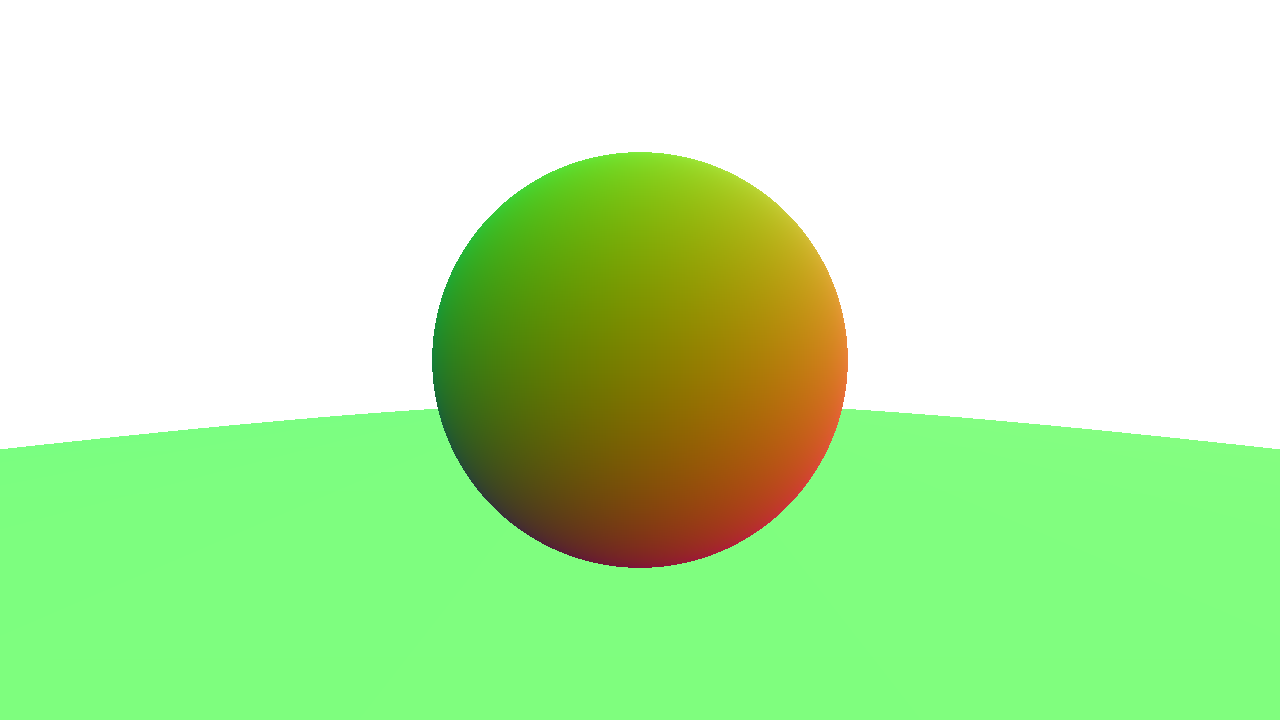
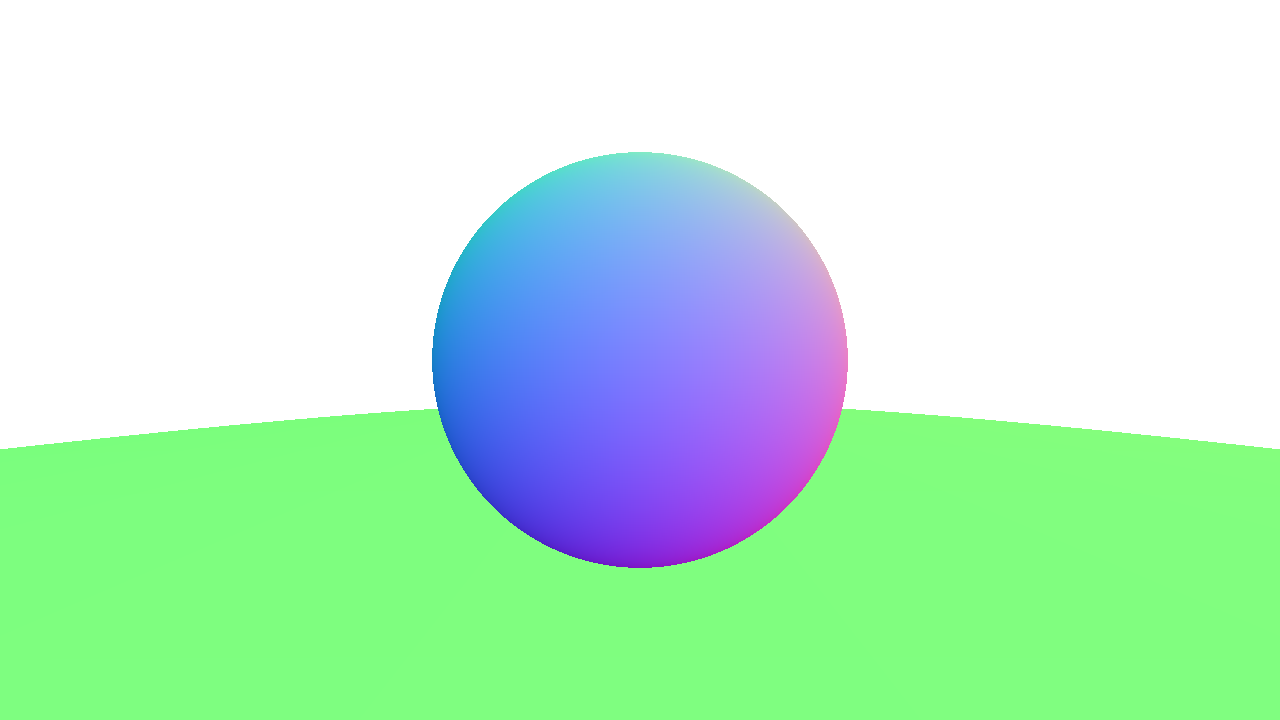
refactor

Changed region(s): [[0.3125, 0.2139, 0.6875, 0.7944]]

diff --git a/src/renderer.rs b/src/renderer.rs
@@ -1,0 +1,132 @@
+#[derive(Debug)]
+pub struct Camera {
+    aspect_ratio: f32,
+    pub frame_size: (u32, u32),
+    center: Vector3,
+    pixel_delta_u: Vector3,
+    pixel_delta_v: Vector3,
+    pixel_0_loc: Vector3,
+    /// near plane
+    viewport_size: (f32, f32),
+}
+impl Camera {
+    pub fn new() -> Self {
+        let aspect_ratio = 16.0 / 9.0;
+        let frame_width = 1280;
+        let frame_height = 720;
+        let center = Vector3::ZERO;
+        // near plane
+        let viewport_size = (2.0*aspect_ratio, 2.0);
+        let pixel_size = 2.0 / frame_height as f32;
+        let viewport_top_left =
+            center + vec3(0.0, 0.0, -1.0) + vec3(-viewport_size.0 / 2.0, viewport_size.1 / 2.0, 0.0);
+        let pixel_delta_u = vec3(pixel_size, 0.0, 0.0);
+        let pixel_delta_v = vec3(0.0, -pixel_size, 0.0);
+        let pixel_0_loc = viewport_top_left + 0.5 * (pixel_delta_u + pixel_delta_v);
+        Self {
+            aspect_ratio,
+            frame_size: (frame_width, frame_height),
+            center,
+            pixel_0_loc,
+            pixel_delta_u,
+            pixel_delta_v,
+            viewport_size,
+        }
+    }
+    pub fn get_ray_at(&self, u: u32, v: u32) -> Ray {
+        let dir =
+            self.pixel_0_loc + (u as f32) * self.pixel_delta_u + (v as f32) * self.pixel_delta_v
+                - self.center;
+        Ray {
+            origin: self.center,
+            direction: dir.normalize(),
+        }
+    }
+}
+
+use std::{fs::File, io::BufWriter};
+
+use image::ImageError;
+use indicatif::ProgressBar;
+use lib_rs::{
+    color::{rgba, Color},
+    linear_algebra::{vector::vec3, Vector3},
+    ray::{HitRecord, Hitable, Ray},
+};
+pub struct Scene {
+    geometries: Vec<Box<dyn Hitable>>,
+}
+
+impl Scene {
+    pub fn new() -> Self {
+        Self { geometries: vec![] }
+    }
+    pub fn ray_cast(&self, ray: Ray) -> Option<HitRecord> {
+        let mut iter = self.geometries.iter();
+        loop {
+            if let Some(s) = iter.next() {
+                if let Some(r) = ray.hit(s, 0.0, 5.0) {
+                    return Some(r);
+                };
+            } else {
+                break;
+            }
+        }
+        return None;
+    }
+    pub fn add(&mut self,g:Box<dyn Hitable>){
+        self.geometries.push(g);
+    }
+}
+
+pub struct Renderer<'a> {
+    camera: &'a Camera,
+    scene: &'a Scene,
+}
+impl<'a> Renderer<'a> {
+    pub fn new(camera: &'a Camera, scene: &'a Scene) -> Self {
+        Self { camera, scene }
+    }
+    pub fn render(&self) -> Result<(), ImageError> {
+        let mut pixels =
+            Vec::with_capacity((self.camera.frame_size.0 * self.camera.frame_size.1) as usize);
+        let bar = ProgressBar::new(pixels.capacity() as u64);
+        for j in 0..self.camera.frame_size.1 {
+            for i in 0..self.camera.frame_size.0 {
+                let ray = self.camera.get_ray_at(i, j);
+                let d = self.scene.ray_cast(ray);
+
+                let color = if let Some(r) = d {
+                    rgba(
+                        r.normal.x * 0.5 + 0.5,
+                        r.normal.y * 0.5 + 0.5,
+                        r.normal.z * 0.5 + 0.5,
+                        1.0,
+                    )
+                } else {
+                    rgba(1.0, 1.0, 1.0, 1.0)
+                };
+
+                pixels.push(color);
+                bar.inc(1);
+            }
+        }
+        bar.finish();
+
+        let mut buffer: Vec<u8> = Vec::with_capacity(pixels.len() * 4);
+        for c in pixels {
+            buffer.extend_from_slice(&c.as_rgba8_bytes());
+        }
+        let mut writer = BufWriter::new(File::create("output.png").unwrap());
+        image::write_buffer_with_format(
+            &mut writer,
+            &buffer,
+            self.camera.frame_size.0,
+            self.camera.frame_size.1,
+            image::ColorType::Rgba8,
+            image::ImageFormat::Png,
+        )
+        .unwrap();
+        Ok(())
+    }
+}

diff --git a/src/main.rs b/src/main.rs
@@ -6,67 +6,24 @@ use lib_rs::{
     linear_algebra::{vector::vec3, Vector3},
     ray::Ray,
 };
-mod image;
+use renderer::{Renderer, Scene};
+
+use crate::renderer::Camera;
+mod renderer;
 
 const WIDTH: u32 = 1280;
 const HEIGHT: u32 = 720;
 
 fn main() {
     let bar = indicatif::ProgressBar::new((WIDTH * HEIGHT) as u64);
-    let camera = Vector3::ZERO;
-    let u_dir = Vector3::UNIT_X;
-    let v_dir = -Vector3::UNIT_Y;
-    let focal_len = 1.0;
-    let aspect_ratio: f32 = 16.0 / 9.0;
-    let viewport_height = 2.0;
-    let viewport_width = viewport_height * aspect_ratio;
-    // width of a pixel
-    let delta_u = u_dir * viewport_width / (WIDTH as f32);
-    // height of a pixel
-    let delta_v = v_dir * viewport_height / (HEIGHT as f32);
-    // center of the top left pixel
-    let top_left_ray_dir = camera + vec3(0.0, 0.0, focal_len)
-        - u_dir * viewport_width / 2.0
-        - v_dir * viewport_height / 2.0
-        + delta_u / 2.0
-        + delta_v / 2.0;
-    dbg!(top_left_ray_dir);
-    let sphere1 = Sphere::new(vec3(0.0, 0.0, 1.0), 0.5);
-    let sphere2 = Sphere::new(vec3(0.0, -100.5, 1.0), 100.0);
-    let geometies = vec![sphere1, sphere2];
+    let camera = Camera::new();
+    dbg!(&camera);
+    let sphere1 = Sphere::new(vec3(0.0, 0.0, -1.0), 0.5);
+    let sphere2 = Sphere::new(vec3(0.0, -100.5, -1.0), 100.0);
     // let mut geometries = vec![sphere];
-    let mut image =
-        crate::image::Image::new(WIDTH, HEIGHT, Vec::with_capacity((WIDTH * HEIGHT) as usize));
-    for j in 0..HEIGHT {
-        for i in 0..WIDTH {
-            let ray_dir =
-                (top_left_ray_dir + (i as f32) * delta_u + (j as f32) * delta_v).normalize();
-            let ray = Ray::new(camera, ray_dir);
-            let d = ray.hit(sphere1, 0.0, 5.0);
-            let mut iter = geometies.iter();
-
-            let r = loop {
-                if let Some(s) = iter.next() {
-                    if let Some(r) = ray.hit(*s, 0.0, 5.0) {
-                        let normal = r.normal;
-                        break Some(rgba(
-                            normal.x * 0.5 + 0.5,
-                            normal.y * 0.5 + 0.5,
-                            normal.z * 0.5 + 0.5,
-                            1.0,
-                        ));
-                    };
-                } else {
-                    break None;
-                }
-            };
-
-            let color = r.unwrap_or(rgba(1.0, 1.0, 1.0, 1.0));
-
-            image.push_pixel(color);
-            bar.inc(1);
-        }
-    }
-    image.write_to_file();
-    bar.finish();
+    let mut scene = Scene::new();
+    scene.add(Box::new(sphere1));
+    scene.add(Box::new(sphere2));
+    let renderer = Renderer::new(&camera,&scene);
+    renderer.render();
 }
